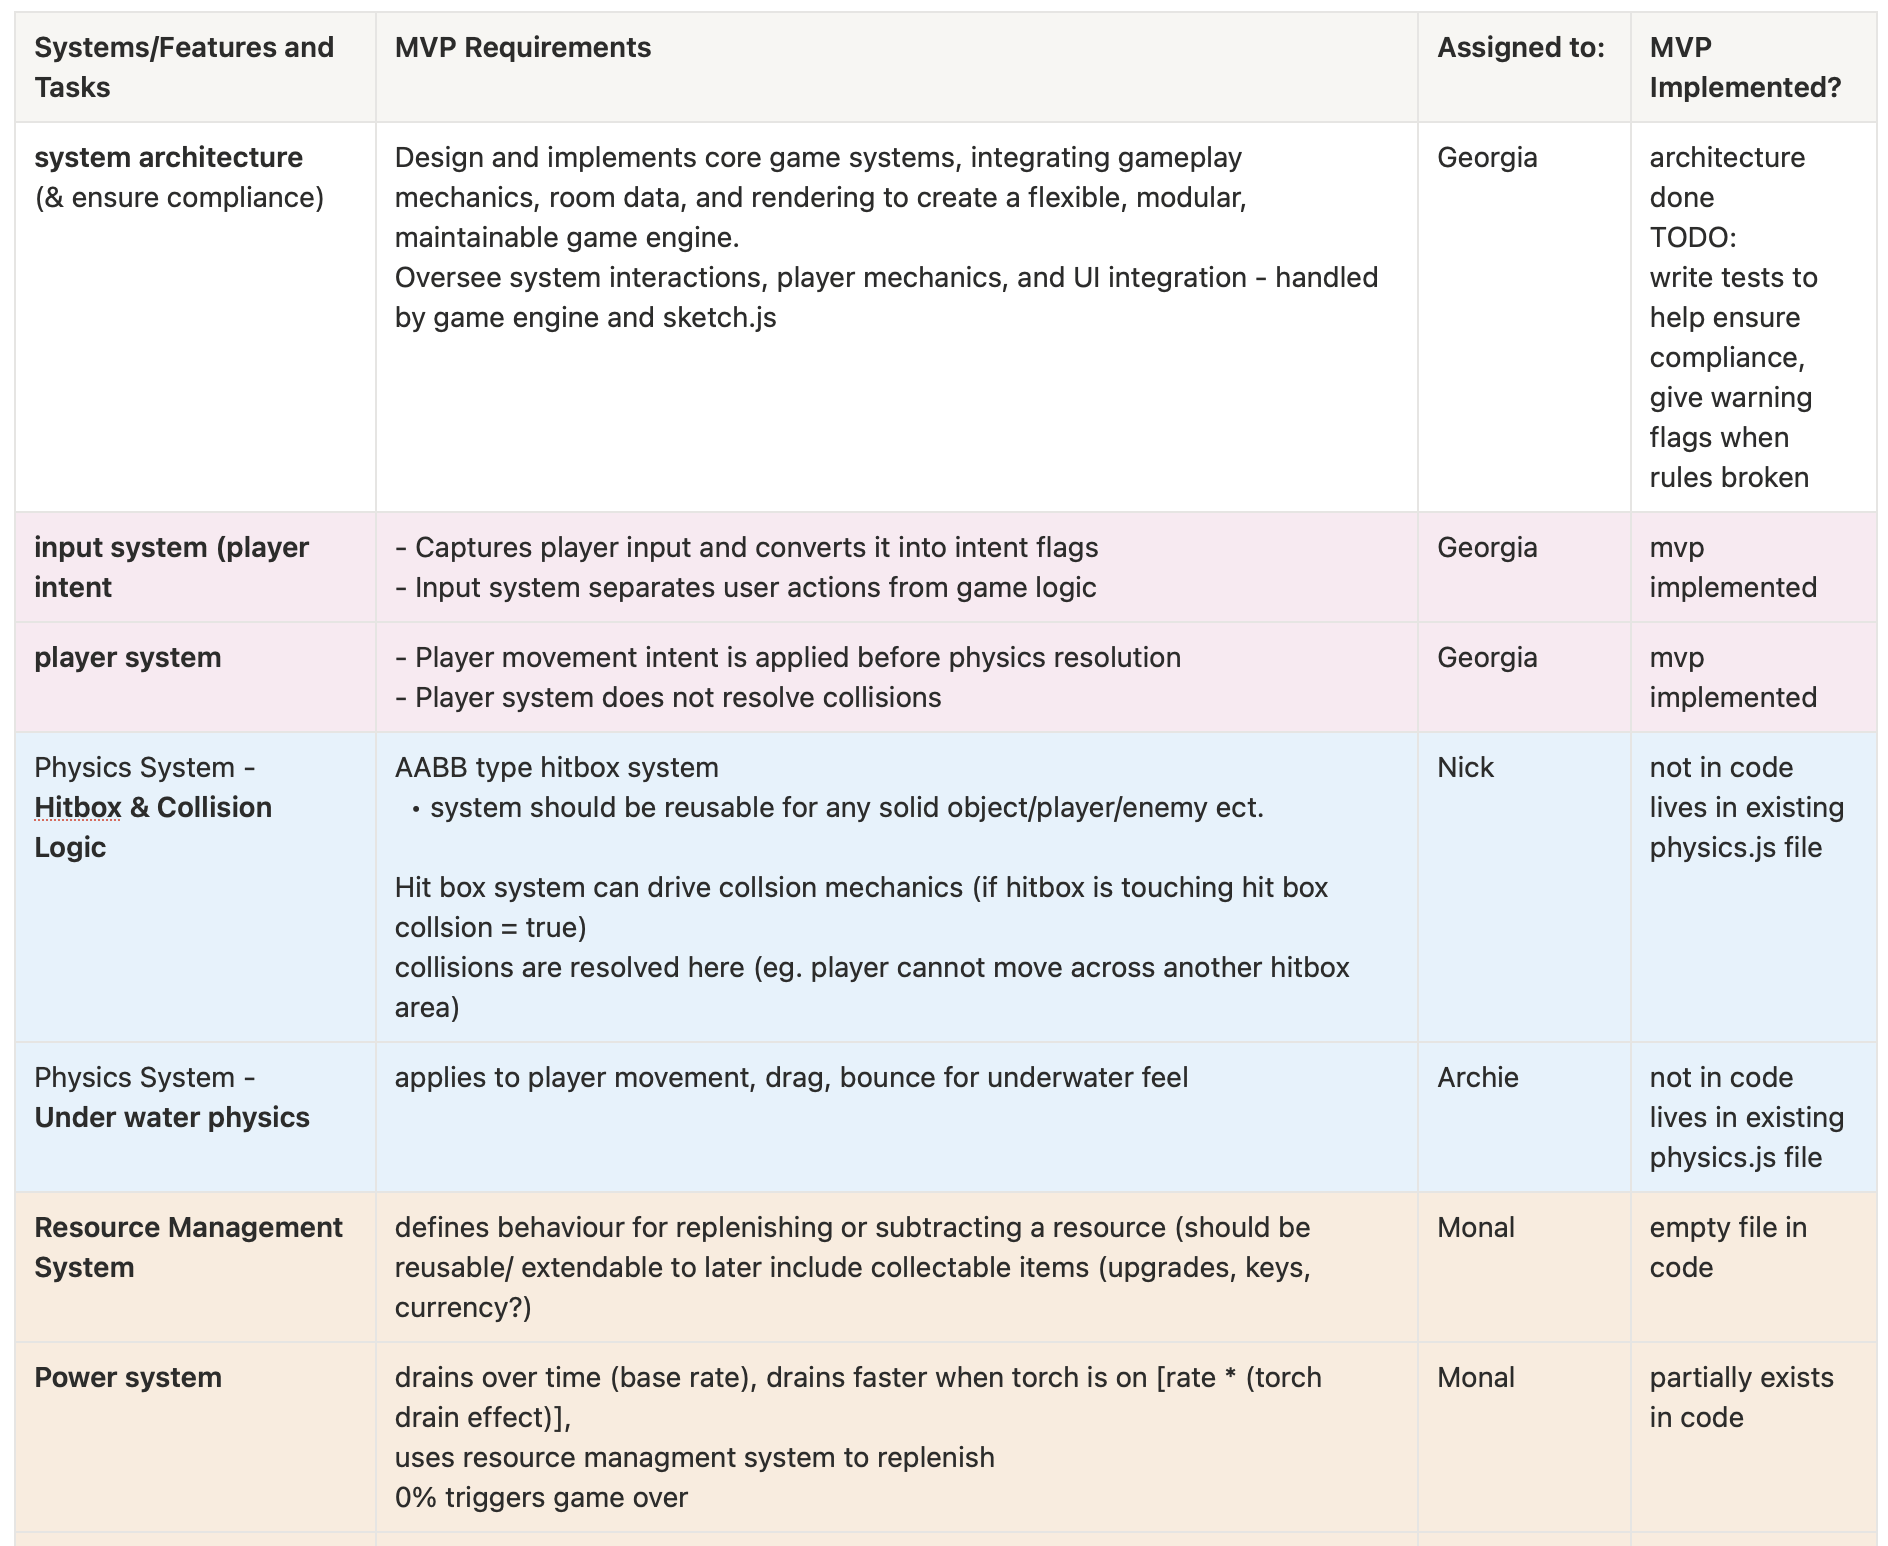
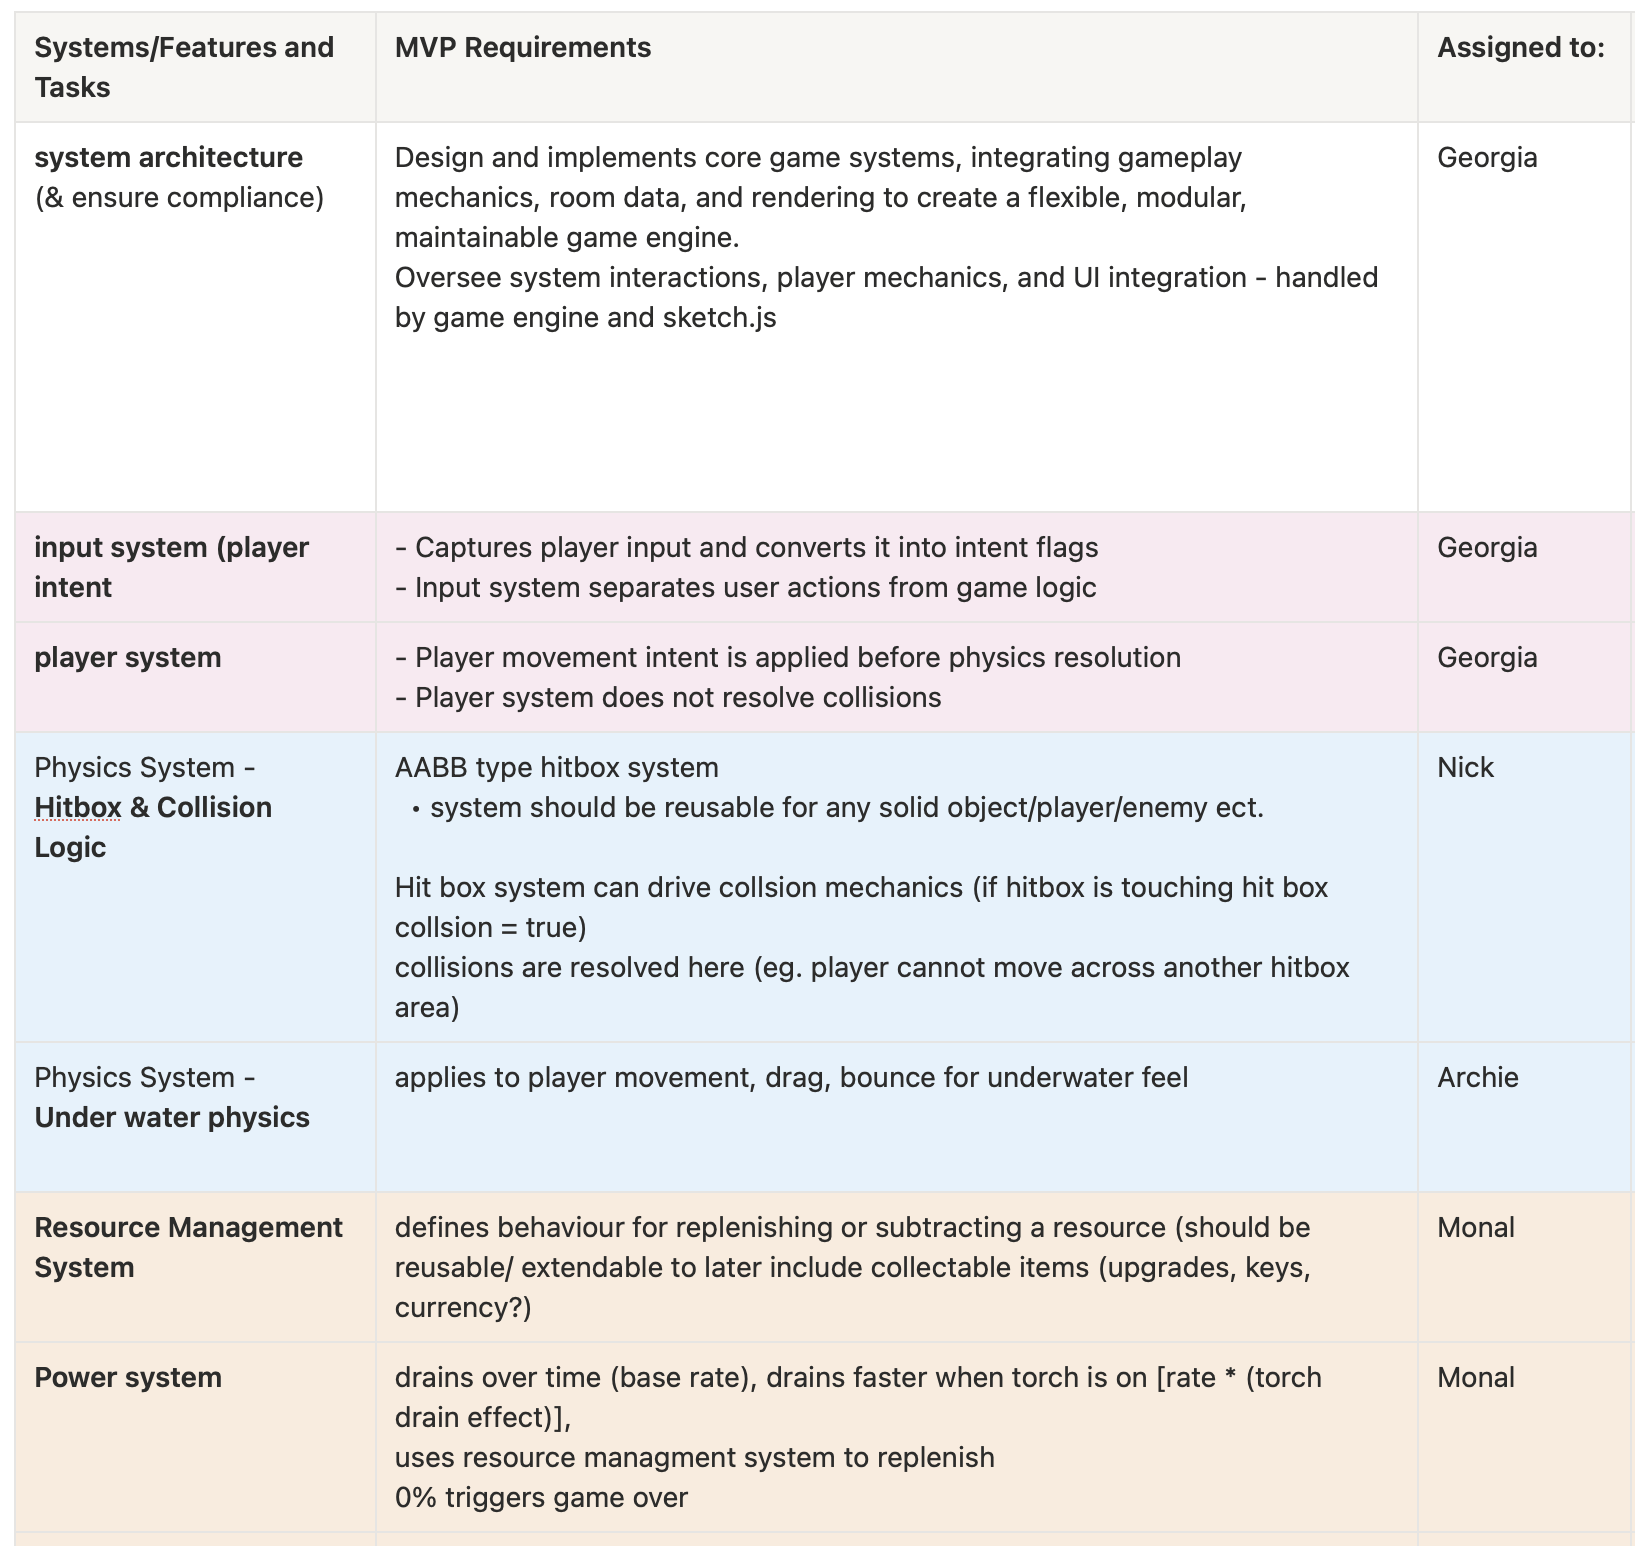
readme changes

diff --git a/README.md b/README.md
@@ -805,7 +805,7 @@ Our Evaluation results confirmed that the core design intention, tension through
         </tr>
         <tr>
             <td>Monal Gupta</td>
-            <td align="left"></td>
+            <td align="left"> Proposed the core Echo-Location mechanics. Designed the Resource Management System (power-ups, health, enemy). Created Enemy System with different behaviours for Crabs(wall bound), Jellyfishes (sinusoidal movement) and Piranhas (sonar pulse attracted). Built starting UI flow (Intro, Story and Controls screens). Integrated spatial audio/SFX and background music. </td>
         </tr>
         <tr>
             <td>Ben Mounce</td>
